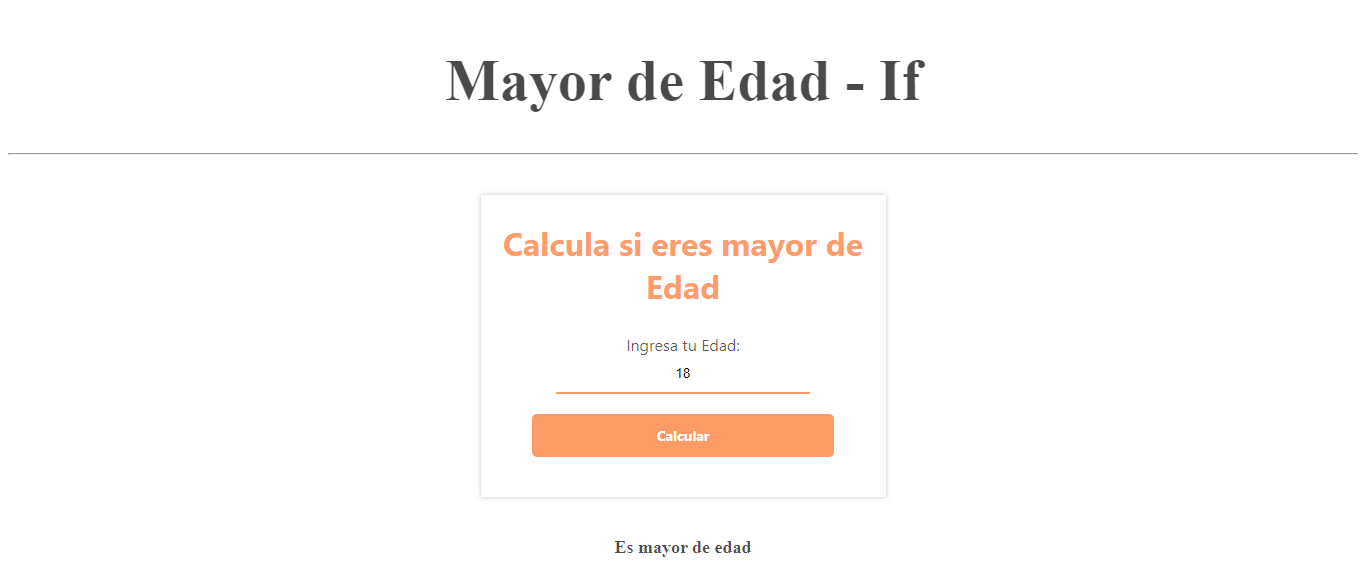
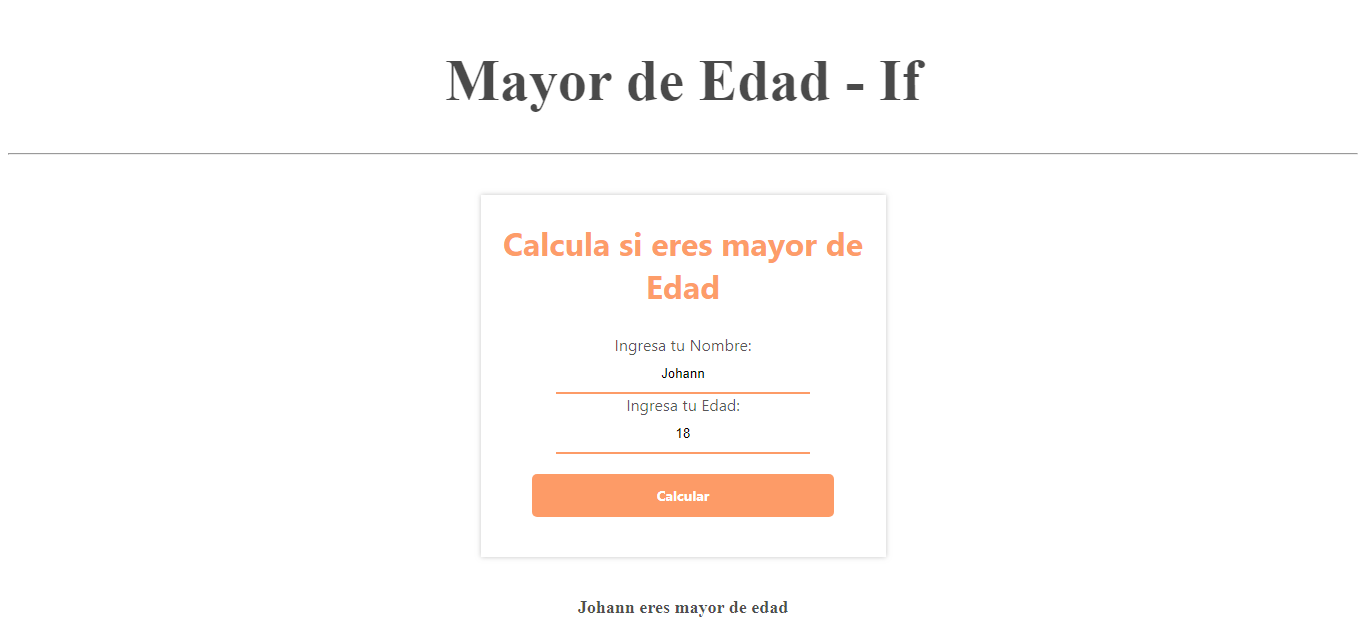
Se agrega al punto 2 el campo Nombre y se Modifica en el Readme - se corrige las validaciones del punto 3

diff --git a/punto-3/view/styles/message.css b/punto-3/view/styles/message.css
@@ -1,0 +1,9 @@
+.message {
+    font-size: 18px;
+    font-weight: bold;
+}
+
+.error_message {
+        color: red;
+        font-size: 16px; 
+}

diff --git a/punto-2/controller/ageCalculation.php b/punto-2/controller/ageCalculation.php
@@ -1,25 +1,27 @@
 <?php
 $ageMessage = "";
 $ageUser = 0;
+$nameUser = "";
 
-if (isset($_POST["age_user"])){
+if ((isset($_POST["name_user"]) && (isset($_POST["age_user"])))){
 
     $ageUser= $_POST["age_user"];
+    $nameUser= $_POST["name_user"];
 
-    if($ageUser != ""){
+    if(($nameUser != "") && ($ageUser != "")){
 
         if (is_numeric($ageUser)){      
             $ageUser= intval($ageUser);
 
                 if($ageUser >= 18) 
                     {
-                        $ageMessage = "Es mayor de edad";
+                        $ageMessage = $nameUser." eres mayor de edad";
                     }
                         else{
-                            $ageMessage = "No es mayor de edad";
+                            $ageMessage = $nameUser." no eres mayor de edad";
                         }                   
         }else{
-            $messageError = "Los valores ingresados deben ser númericos.";
+            $messageError = "Los valores ingresados en la edad deben ser númericos.";
             }
 
         }else{

diff --git a/punto-3/view/components/form.php b/punto-3/view/components/form.php
@@ -5,17 +5,17 @@
         <div>
             <div>
                 <label for="user-name">Nombre:</label>
-                <input id="user-name" type="text" name="user_name" placeholder="Johitan">
+                <input id="user-name" type="text" name="user_name" placeholder="Johann" required>
             </div>
 
             <div>
                 <label for="user-lastName">Apellido:</label>
-                <input id="user-lastName" type="text" name="user_lastName" placeholder="Tocora" >
+                <input id="user-lastName" type="text" name="user_lastName" placeholder="Tocora"  required>
             </div>
 
             <div>
                 <label for="user-id">Cédula:</label>
-                <input id="user-id" type="text" name="user_id" placeholder="1030555876">
+                <input id="user-id" type="text" name="user_id" placeholder="1030555876" required>
             </div>
             <button>Registrar</button>
         </div>

diff --git a/punto-2/view/components/form.php b/punto-2/view/components/form.php
@@ -5,9 +5,17 @@
     <h2>Calcula si eres mayor de Edad </h2>
     <div class="form__row">
         <div>
+            <label for="name-user" >Ingresa tu Nombre:</label>
+                <input
+                id="name-user" 
+                type="text" 
+                name="name_user"
+                placeholder = "Johann" 
+                >
+        </div>  
+        <div>
             <label for="age-user" >Ingresa tu Edad:</label>
                 <input
-                require
                 id="age-user" 
                 type="text" 
                 name="age_user"

diff --git a/punto-3/controller/validation.php b/punto-3/controller/validation.php
@@ -3,18 +3,15 @@
 $errorMessage = "";
 $userName = "";
 $userLastName = "";
-$userId = 0;
+$userId = "";
 
 if (isset($_GET["user_name"]) && isset($_GET["user_lastName"]) && isset($_GET["user_id"])) {
+
     $userName = $_GET["user_name"];
     $userLastName = $_GET["user_lastName"];
-    $userId = intval($_GET["user_id"]);
-
-    if (!is_numeric($userId)) {
-        $errorMessage = "La Cédula solo acepta caracteres numéricos.";
-    }
-
+    $userId = $_GET["user_id"];
 }
+
 ?>
 
 

diff --git a/punto-1/view/components/result.php b/punto-1/view/components/result.php
@@ -3,7 +3,9 @@
         <p class="error_message"><?php echo $messageError; ?></p>
     <?php endif; ?>
     
-    <?php    
-    echo "su resultado es " .$result;
-    ?>
+    <?php if ($result != ""): ?>
+        <p><?php echo "Su resultado es: " .$result; ?></p>
+    <?php endif; ?>
+
+  
 </div>

diff --git a/punto-3/view/pages/user-info.php b/punto-3/view/pages/user-info.php
@@ -11,8 +11,7 @@
 <h1>Datos del usuario</h1> 
     
    <?php include "../components/info.php"?>
-   
-   
+  
    <div class = "go-back">
     <a href="../../">Volver a la página anterior</a>
 </body>

diff --git a/punto-1/controller/calculationController.php b/punto-1/controller/calculationController.php
@@ -1,7 +1,7 @@
 <?php
 include "./controller/calculationUtilsController.php";
 
-$result = 0;
+$result = "";
 $messageError = "";
 
 
